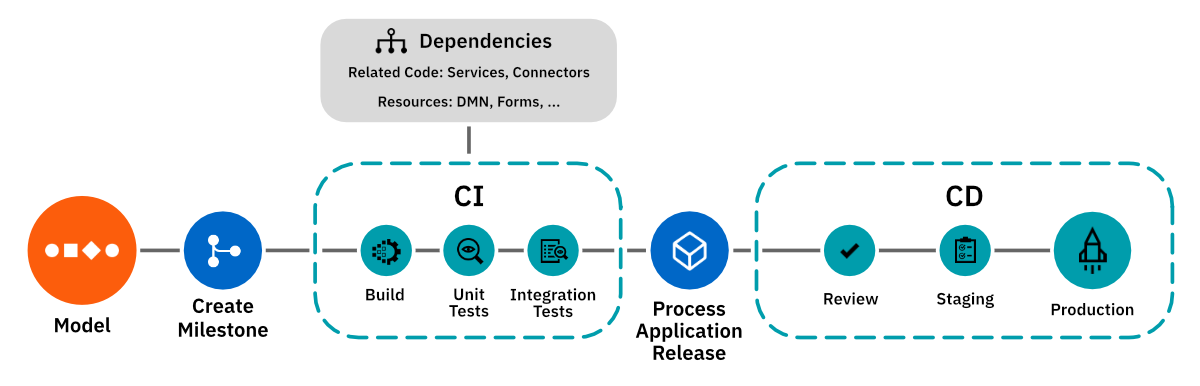
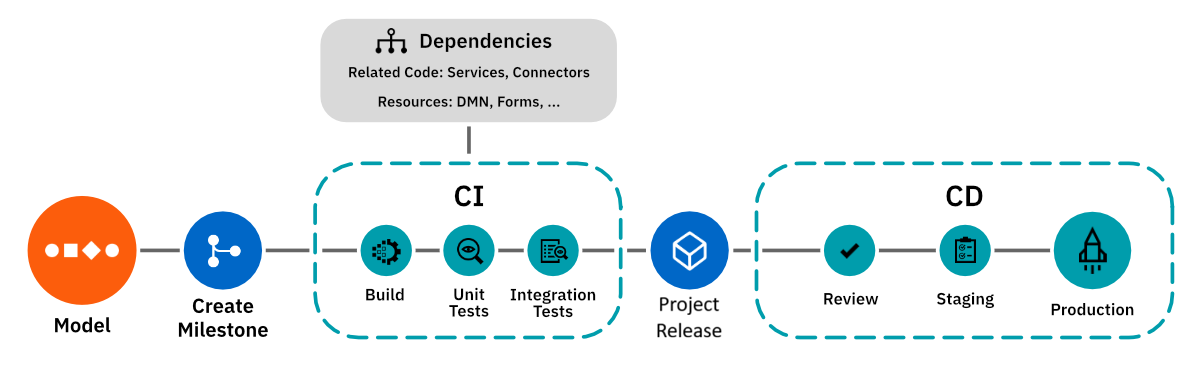
docs(hub): more hub terminology updates

Changed region(s): [[0.5242, 0.7772, 0.6167, 0.9326]]

diff --git a/docs/components/hub/workspace/modeler/integrate-modeler-in-ci-cd.md b/docs/components/hub/workspace/modeler/integrate-modeler-in-ci-cd.md
@@ -1,7 +1,7 @@
 ---
 id: integrate-modeler-in-ci-cd
 title: Integrate Camunda Hub into CI/CD
-description: Empower DevOps with Web Modeler and integrate into CI/CD pipelines to streamline deployments of projects.
+description: Empower DevOps with Camunda Hub and integrate into CI/CD pipelines to streamline deployments of projects.
 keywords: [CI/CD, devops, modeler, processops, projects, integration guide]
 ---
 
@@ -11,23 +11,26 @@ import TabItem from "@theme/TabItem";
 <span class="badge badge--intermediate">Intermediate</span>
 <span class="badge badge--medium">Time estimate: 1 hour</span>
 
-[Web Modeler](/components/modeler/about-modeler.md) serves as a powerful tool for the development and deployment of processes and projects. While Web Modeler simplifies one-click deployment for development, professional teams often rely on continuous integration and continuous deployment (CI/CD) pipelines for automated production deployments. The [Web Modeler API](/apis-tools/web-modeler-api/index.md) facilitates integration of Web Modeler into these pipelines, aligning with team practices and organizational process governance.
+Empower DevOps with Camunda Hub and integrate into CI/CD pipelines to streamline deployments of projects.
 
-- For low-risk processes, you can use Camunda Hub [project development pipeline](/components/hub/workspace/manage-projects/manage-projects.md#project-development-lifecycle) to quickly develop and progress project releases through the stages of a standard development lifecycle. [Version comparison](/components/hub/workspace/modeler/modeling/versions.md#compare-versions) (Visual and XML diffing), built in [review](/components/hub/workspace/manage-projects/project-versioning.md#request-a-review), and [Git Sync](/components/hub/workspace/manage-projects/git-sync.md) provide a powerful combination for collaboration between team members using both Web and Desktop Modeler.
+## About
 
-- For business-critical and higher-risk processes that require strict governance and/or quality requirements, you can integrate Web Modeler into your CI/CD pipelines.
+[Camunda Hub](/components/modeler/about-modeler.md) serves as a powerful tool for the development and deployment of processes and projects. While Camunda Hub simplifies one-click deployment for development, professional teams often rely on continuous integration and continuous deployment (CI/CD) pipelines for automated production deployments. The [Camunda Hub API](/apis-tools/hub-api-sm/overview.md) facilitates integration of Camunda Hub into these pipelines, aligning with team practices and organizational process governance.
+
+- For low-risk processes, develop and progress project releases through the stages of the standard [project development lifecycle](/components/hub/workspace/manage-projects/manage-projects.md#project-development-lifecycle). [Version comparison](/components/hub/workspace/modeler/modeling/versions.md#compare-versions) (Visual and XML diffing), built in [review](/components/hub/workspace/manage-projects/project-versioning.md#request-a-review), and [Git Sync](/components/hub/workspace/manage-projects/git-sync.md) provide a powerful combination for collaboration between team members using both Camunda Hub and Desktop Modeler.
+- For business-critical and higher-risk processes that require strict governance and/or quality requirements, you can integrate Camunda Hub into your CI/CD pipelines.
 
 Continuous integration and deployment are pivotal for rapid and reliable software development, testing, and delivery. These practices automate the building, testing, and deployment processes, leading to shorter development cycles, enhanced collaboration, and higher-quality releases.
 
-Integrating Web Modeler into your CI/CD pipelines can significantly enhance project development and deployment workflows. By automating project deployment, changes can be promptly and accurately reflected in the production environment. This agility empowers teams to swiftly respond to evolving business needs, fostering a flexible and adaptable process orchestration approach.
+Integrating Camunda Hub into your CI/CD pipelines can significantly enhance project development and deployment workflows. By automating project deployment, changes can be promptly and accurately reflected in the production environment. This agility empowers teams to swiftly respond to evolving business needs, fostering a flexible and adaptable process orchestration approach.
 
 ## Prerequisites
 
-Each pipeline is unique. The Web Modeler API offers flexibility to tailor integrations according to your pipelines. To get started, there are a few prerequisites based on your setup:
+Each pipeline is unique. The Camunda Hub API offers flexibility to tailor integrations according to your pipelines. To get started, there are a few prerequisites based on your setup:
 
 - A platform to host a version control system (VCS) such as GitHub or GitLab.
 - An existing pipeline or a plan to set one up using tools like [CircleCI](https://circleci.com/) or [Jenkins](https://www.jenkins.io/), cloud platforms such as [Azure DevOps Pipelines](https://azure.microsoft.com/de-de/products/devops), or built-in solutions of VCS platforms like [GitHub Actions](https://github.com/features/actions) or [GitLab's DevSecOps Lifecycle](https://about.gitlab.com/stages-devops-lifecycle/).
-- Make yourself familiar with the [Web Modeler API](/apis-tools/web-modeler-api/index.md) through the [OpenAPI documentation](https://modeler.camunda.io/swagger-ui/index.html).
+- Familiarize yourself with the [Camunda Hub API](/apis-tools/hub-api-sm/overview.md).
 - Understand how [clusters](/components/concepts/clusters.md) work in Camunda 8.
 - Ensure you’ve [created a Camunda 8 account](/components/hub/organization/manage-organization-settings/manage-plan/create-account.md), or installed [Camunda 8 Self-Managed](/self-managed/about-self-managed.md).
 
@@ -36,41 +39,41 @@ Each pipeline is unique. The Web Modeler API offers flexibility to tailor integr
 :::tip CI/CD pipeline process blueprint
 
 The Camunda Marketplace offers a customizable [process blueprint for CI/CD pipelines](https://marketplace.camunda.com/en-US/apps/439170/cicd-pipeline) to streamline the setup process described below.
-This blueprint provides a ready-to-use proof of concept for a CI/CD pipeline for Web Modeler, enabling you to synchronize Web Modeler files to GitLab and deploy them across different environments.
+This blueprint provides a ready-to-use proof of concept for a CI/CD pipeline for Camunda Hub, enabling you to synchronize Camunda Hub files to GitLab and deploy them across different environments.
 
 :::
 
 While a pipeline for project integration and deployment resembles general software CI/CD pipelines, key distinctions exist. Consider the following:
 
-- Web Modeler uses [versions](/components/hub/workspace/modeler/modeling/versions.md) to indicate specific process states, such as readiness for developer handover, review, or deployment.
-- A project comprises diverse resources, such as processes, subprocesses, forms, DMN decision models, connectors, job workers, and orchestrated services. Some applications bundle these resources, while others focus on a single process for deployment.
+- Camunda Hub uses [versions](/components/hub/workspace/modeler/modeling/versions.md) to indicate specific process states, such as readiness for developer handover, review, or deployment.
+- A project comprises diverse resources, such as processes, subprocesses, forms, DMN decision models, connectors, job workers, and orchestrated services. Some projects bundle these resources, while others focus on a single process for deployment.
 - Process reviews differ from code reviews, occurring on visual diagrams rather than XML.
 
-![Sample CI/CD setup with Web Modeler](img/modeler-ci-cd.png)
+![Sample CI/CD setup with Camunda Hub](img/modeler-ci-cd.png)
 
 ### Obtain API clients and tokens
 
-Before getting started, obtain API clients and tokens for integrating Web Modeler and accessing the process engine via API:
+Before getting started, obtain API clients and tokens for integrating Camunda Hub and accessing the process engine via API:
 
-- [Obtain an API token for Web Modeler](/apis-tools/web-modeler-api/authentication.md)
+- [Obtain an API token for Camunda Hub](/apis-tools/hub-api-sm/authentication.md)
 - [Obtain an API client for Zeebe](/components/hub/organization/manage-clusters/manage-api-clients.md#create-a-client)
 
-### Disable manual deployments from Web Modeler
+### Disable manual deployments from Camunda Hub
 
 To enforce pipeline-driven deployments to your environments, consider disabling manual deployments.
 
 <Tabs groupId="disableDeployments" defaultValue="sm" values={[{label: 'Self-Managed', value: 'sm', }, {label: 'SaaS', value: 'saas', },]} >
 <TabItem value="sm">
 
-Disable manual deployments for any user by configuring environment variables `ZEEBE_BPMN_DEPLOYMENT_ENABLED` and `ZEEBE_DMN_DEPLOYMENT_ENABLED` as documented [here](/self-managed/components/hub/configuration/properties.md#general).
+Disable manual deployments for any member by configuring environment variables `ZEEBE_BPMN_DEPLOYMENT_ENABLED` and `ZEEBE_DMN_DEPLOYMENT_ENABLED` as documented [here](/self-managed/components/hub/configuration/properties.md#general).
 
 </TabItem>
 <TabItem value="saas">
 
-Users without **Admin** roles in Camunda Hub can deploy only on `dev`, `test`, or `stage` clusters. To restrict their deployment permissions remove the **Developer** role from users in Camunda Hub.
+Users without **Organization Owner** or **Organization Admin** roles in Camunda Hub can deploy only on `dev`, `test`, or `stage` clusters. To restrict their deployment permissions, remove the now-deprecated **Developer** role from users in Camunda Hub.
 
 :::info
-Only organization owners or users with the **Admin** role can deploy from Web Modeler to `prod` clusters.
+Only users with **Organization Owner** or **Organization Admin** roles can deploy from Camunda Hub to `prod` clusters.
 :::
 
 Read more in the [user roles documentation](/components/hub/organization/manage-users/manage-users.md).
@@ -88,64 +91,94 @@ You need triggers to initiate the pipeline for files or projects. Choose between
 
 #### Sync files with version control
 
-Synchronize files between Web Modeler and version control systems (VCS) and vice versa. Manage both files and projects by using a complete set of CRUD (create, read, update, delete) operations provided by the Web Modeler API. By syncing files from Web Modeler to your VCS, you benefit from full file ownership and avoid duplicated data housekeeping.
+Synchronize files between Camunda Hub and version control systems (VCS) and vice versa. Manage both files and projects by using a complete set of CRUD (create, read, update, delete) operations provided by the Camunda Hub API. By syncing files from Camunda Hub to your VCS, you benefit from full file ownership and avoid duplicated data housekeeping.
 
-For automatic file synchronization, consider maintaining a secondary system of record for mapping Web Modeler projects to VCS repositories. This system also monitors the project-to-repository mapping and update timestamps.
+For automatic file synchronization, consider maintaining a secondary system of record for mapping Camunda Hub projects to VCS repositories. This system also monitors the project-to-repository mapping and updates timestamps.
 
-To listen to changes in Web Modeler, you currently need to implement a polling approach that compares the update dates with the last sync dates recorded. Use the `POST /api/v1/files/search` [endpoint](https://modeler.camunda.io/swagger-ui/index.html#/Files/searchFiles) with the following payload to identify files updated after the last sync date:
+#### Example: Poll latest file edits
 
-```json title="POST /api/v1/files/search"
+To listen to file changes in Camunda Hub, you currently need to implement a polling approach that compares the update dates with the last sync dates recorded.
+
+[Search for project files](/apis-tools/hub-api-sm/specifications/search-files.api.mdx) that have been updated since the last sync:
+
+```json title="POST /api/v2/files/search"
 {
   "filter": {
-    "projectId": "(PROJECT TO SYNC)",
-    "updated": ">(LAST SYNC DATE)"
+    "projectKey": "56a98f55-7c53-4e7b-83b7-c58856ee39e4",
+    "updated": {
+      "$gt": "2026-08-30T09:22:15.665653Z"
+    }
   },
-  "page": 0,
-  "size": 50
+  "page": {
+    "from": 0,
+    "limit": 50
+  }
 }
 ```
 
-:::info
-Pagination is enforced for all listed `search` endpoints. Ensure you obtain all relevant pages.
+:::note
+All responses for `search` endpoints are paginated. Make sure you obtain all relevant pages.
 :::
 
-Real-time synchronization isn't always what you need. Consider Web Modeler as a local repository, and update your remote repository only after files are committed and pushed. This aligns with the concept of [versions](/components/hub/workspace/modeler/modeling/versions.md).
+[Get the content for each file](/apis-tools/hub-api-sm/specifications/get-file.api.mdx):
 
-#### Listening to version creation
+```shell
+GET /api/v2/files/{fileKey}
+```
 
-A version reflects a state of a file in Web Modeler with a certain level of qualification, such as being ready for deployment. You can use this property to trigger deployments when a certain version is created.
+With this file data, you can create a pull request and sync the file contents with your repository.
 
-Currently, you have to poll for versions to listen to new ones created. Use the `POST /api/v1/versions/search` [endpoint](https://modeler.camunda.io/swagger-ui/index.html#/Versions/searchVersions) with the following payload to identify versions created after the last sync date:
+Real-time synchronization isn't always what you need. Consider Camunda Hub as a local repository, and update your remote repository only after files are committed and pushed. This aligns with the concept of [versions](/components/hub/workspace/modeler/modeling/versions.md).
 
-```json title="POST /api/v1/versions/search"
+#### Example: Poll new file versions
+
+A version reflects a state of a file in Camunda Hub with a certain level of qualification, such as being ready for deployment. You can use this property to trigger deployments when a certain version is created. You can poll the Camunda Hub API to know when a project file has a new version.
+
+[Search for all project files](/apis-tools/hub-api-sm/specifications/search-files.api.mdx):
+
+```json title="POST /api/v2/files/search"
 {
   "filter": {
-    "created": ">(YOUR LAST SYNC DATE)"
+    "projectKey": "56a98f55-7c53-4e7b-83b7-c58856ee39e4"
   },
-  "page": 0,
-  "size": 50
+  "page": {
+    "from": 0,
+    "limit": 50
+  }
 }
 ```
 
-You will receive a response similar to this, where the `fileId` indicates the file with the version created:
+This returns a list of files. You'll use the `fileKey` property to search for versions.
 
-```json
+[Get the file versions](/apis-tools/hub-api-sm/specifications/search-versions.api.mdx) for all project files. Filter for files whose versions are newer than the last sync date:
+
+```json title="/api/v2/versions/search"
 {
-  "items": [
-    {
-      "id": "string",
-      "name": "string",
-      "fileId": "string",
-      ...
+  "filter": {
+    "fileKey": {
+      "$in": [
+        "2afd9a1e-5ea8-43e3-b45b-6fb96b384a14",
+        "2386e244-b2c0-4feb-8b68-4429c0cdf0c5"
+      ]
     },
-    ...
-  ]
+    "created": {
+      "$gt": "2026-08-31T11:07:45.924036Z"
+    }
+  },
+  "page": {
+    "from": 0,
+    "limit": 50
+  }
 }
 ```
 
-To retrieve the content of this particular version, use the `GET /api/v1/versions/:id` endpoint. To obtain the latest edit state of the file, use the `GET /api/v1/files/:id` endpoint. This endpoint also provides the `projectId` necessary for the `POST /api/v1/projects/search` endpoint if you want to push the full project via the pipeline.
+[Get the content for each version](/apis-tools/hub-api-sm/specifications/get-version.api.mdx):
 
-Combine these two approaches and listen to versions to sync files to your version control, create a pull/merge request, and trigger pipelines.
+```shell
+GET /api/v2/versions/{versionKey}
+```
+
+With this version data, you can create a pull request and sync the file contents with your repository.
 
 ## Pipeline stages
 
@@ -157,7 +190,7 @@ While there is no distinct concept for a build package in Camunda 8, artifact st
 
 #### Set up preview environments
 
-Offering an automatically testable and review-ready process preview mandates a dedicated preview cluster. Numerous options exist, varying with software development lifecycle design, preferences, and Camunda 8 deployment type (SaaS, self-managed, or hybrid). This guide proposes a setup with lightweight local self-managed preview clusters (or embedded engines) and full-fledged staging and production clusters (Self-Managed or SaaS).
+Offering an automatically testable and review-ready process preview mandates a dedicated preview cluster. Numerous options exist, varying with software development lifecycle design, preferences, and Camunda 8 deployment type (SaaS, Self-Managed, or hybrid). This guide proposes a setup with lightweight local Self-Managed preview clusters (or embedded engines) and full-fledged staging and production clusters (Self-Managed or SaaS).
 
 ##### Using fully-featured clusters
 
@@ -175,31 +208,33 @@ For GitLab users, consider using [GitLab Review Apps](https://docs.gitlab.com/ee
 
 Deploy resources using the [Orchestration Cluster REST API](/apis-tools/orchestration-cluster-api-rest/orchestration-cluster-api-rest-overview.md) in this pipeline step, compatible with both SaaS and Self-Managed clusters. Alternately, utilize the [Java](/apis-tools/java-client/getting-started.md) client library or any [community-built alternatives](/apis-tools/community-clients/index.md).
 
-:::info Feature branches and Web Modeler installations
-To maintain a single source of truth, avoid multiple Web Modeler instances for different feature branches. Instead, maintain a single Web Modeler installation for all environments, utilizing versions to signify versioning and pipeline stages. Feature branches can be managed by cloning and merging files or projects, ensuring synchronization using VCS.
+:::info Feature branches and Camunda Hub installations
+To maintain a single source of truth, avoid multiple Camunda Hub instances for different feature branches. Instead, maintain a single Camunda Hub installation for all environments, utilizing versions to signify versioning and pipeline stages. Feature branches can be managed by cloning and merging files or projects, ensuring synchronization using VCS.
 :::
 
 #### Automate deployment of linked resources/dependencies
 
-Pipeline-driven deployment can be executed for a single file or an entire project. A separate system of record, maintained outside Web Modeler, can handle finer-grained dependency management. Fetch the full project for a file using the `GET /api/v1/files/:id` endpoint to acquire the project's `projectId`. Subsequently, use the `POST /api/v1/files/search` endpoint with the following payload to retrieve all project files:
+Pipeline-driven deployment can be executed for a single file or an entire project. A separate system of record, maintained outside Camunda Hub, can handle finer-grained dependency management. Fetch the full project for a file using the `GET /api/v2/files/{fileKey}` endpoint to acquire the project's `projectKey`. Subsequently, use the `POST /api/v2/files/search` endpoint with the following payload to retrieve all project files:
 
-```json title="POST /api/v1/files/search"
+```json title="POST /api/v2/files/search"
 {
   "filter": {
-    "projectId": "(PROJECT ID)"
+    "projectKey": "56a98f55-7c53-4e7b-83b7-c58856ee39e4"
   },
-  "page": 0,
-  "size": 50
+  "page": {
+    "from": 0,
+    "limit": 50
+  }
 }
 ```
 
 :::info
-Pagination is enforced for all listed `search` endpoints. Ensure you obtain all relevant pages.
+All responses for `search` endpoints are paginated. Make sure you obtain all relevant pages.
 :::
 
-To retrieve the actual file `content`, iterate over the response and fetch it via `GET /api/v1/files/:id`. Parse the XML of the diagram for the `zeebe:taskDefinition` tag to retrieve job worker types. Utilizing a job worker registry mapping, deploy these workers along with the process if required.
+To retrieve the actual file `content`, iterate over the response and fetch it via `GET /api/v2/files/{fileKey}`. Parse the XML of the diagram for the `zeebe:taskDefinition` tag to retrieve job worker types. Utilizing a job worker registry mapping, deploy these workers along with the process if required.
 
-If you are running connectors in your process or application, you need to deploy the runtimes as well. Parse the process XML for `zeebe:taskDefinition` bindings to identify the necessary runtimes (in addition to job workers). To learn how to deploy connector runtimes, read more [here](/self-managed/components/connectors/overview.md) for Self-Managed, or [here](/components/connectors/custom-built-connectors/connector-sdk.md#runtime-environments) for SaaS.
+If you are running connectors in your process, you need to deploy the runtimes as well. Parse the process XML for `zeebe:taskDefinition` bindings to identify the necessary runtimes (in addition to job workers). To learn how to deploy connector runtimes, read more [here](/self-managed/components/connectors/overview.md) for Self-Managed, or [here](/components/connectors/custom-built-connectors/connector-sdk.md#runtime-environments) for SaaS.
 
 Deploy resources in this pipeline step using the [Orchestration Cluster REST API](/apis-tools/orchestration-cluster-api-rest/orchestration-cluster-api-rest-overview.md), compatible with both SaaS and Self-Managed clusters. Alternatively, utilize the Java client library or any community-built alternatives.
 
@@ -213,7 +248,7 @@ Keep strict quality standards for your processes with automatic testing and repo
 
 #### Lint your diagrams
 
-Add a step to your pipeline for automatic process verification using the [bpmnlint](https://github.com/bpmn-io/bpmnlint) and [dmnlint](https://github.com/bpmn-io/dmnlint) libraries. Maintained by the bpmn-io team at Camunda, these open source libraries provide a default set of verification rules, as well as the option to add custom rules. They provide reporting capabilities to report back when the verification fails. These are the same libraries Web Modeler uses to verify diagrams during modeling.
+Add a step to your pipeline for automatic process verification using the [bpmnlint](https://github.com/bpmn-io/bpmnlint) and [dmnlint](https://github.com/bpmn-io/dmnlint) libraries. Maintained by the bpmn-io team at Camunda, these open source libraries provide a default set of verification rules, as well as the option to add custom rules. They provide reporting capabilities to report back when the verification fails. These are the same libraries Camunda Hub uses to verify diagrams during modeling.
 
 You could even report the wrong diagram patterns together with examples to resolve it using [this extension](https://github.com/bpmn-io/bpmnlint-generate-docs-images).
 
@@ -223,42 +258,49 @@ For unit tests, select a test framework suitable for your environment. If workin
 
 ### Review stage
 
-During reviews, use the Modeler API again to [add collaborators](https://modeler.camunda.io/swagger-ui/index.html#/Collaborators/modifyCollaborator), or to [create links to visual diffs of your versions](https://modeler.camunda.io/swagger-ui/index.html#/Versions/compareVersions), and automatically paste them into your GitHub or GitLab pull or merge requests.
-This provides you the freedom to let reviews happen where you want them, and even include business by sharing the diff links with them in an automated fashion.
+During reviews, you can:
 
-After review, use the `DELETE /api/v1/projects/{projectId}/collaborators/email` [endpoint](https://modeler.camunda.io/swagger-ui/index.html#/Collaborators/deleteCollaborator) to remove collaborators again.
+1. Use the Camunda Hub API to [add workspace members](/apis-tools/hub-api-sm/specifications/add-member.api.mdx).
+2. [Create a link to a visual diff for reviews](#create-a-link-to-a-visual-diff-for-reviews)
+3. Automatically paste them into your GitHub or GitLab pull or merge requests.
+
+This provides you the freedom to let reviews happen where you want them.
+
+After review, use the [`DELETE /api/v2/workspaces/{workspaceKey}/members/{email}` endpoint](/apis-tools/hub-api-sm/specifications/remove-member.api.mdx) to remove members from the workspace.
 
 #### Create a link to a visual diff for reviews
 
-Use versions to indicate a state for review. Use the `POST /api/v1/versions` endpoint to create a new version, and provide a description to reflect the state of this version using the `name` property. The current content of the file is copied over on version creation.
+Use versions to indicate a state for review. Use the `POST /api/v2/versions` endpoint to create a new version, and provide a description to reflect the state of this version using the `name` property. The current content of the file is copied over on version creation.
 
-While it is possible to do a diff of your diagrams by comparing the XML in your VCS system, this is often not very convenient, and lacks insight into process flow changes. This approach is also less effective when involving business stakeholders in the review.
+While it is possible to do a diff of your diagrams by comparing the XML in your VCS, this is often not very convenient, and lacks insight into process flow changes. This approach is also less effective when involving business stakeholders in the review.
 
-The Web Modeler API addresses this by providing an endpoint to generate visual diff links for versions. Utilize the `GET /api/v1/versions/compare/{version1Id}...{version2Id}` [endpoint](https://modeler.camunda.io/swagger-ui/index.html#/Versions/compareVersions) to compare two versions. Obtain IDs for the latest versions via the `POST /api/v1/versions/search` [endpoint](https://modeler.camunda.io/swagger-ui/index.html#/Versions/searchVersions), utilizing the `fileId` filter to identify the file to review. The resulting URL leads to a visual diff page similar to this:
+Instead, you can generate visual diff links for versions:
 
-![Visual diff of two versions](img/visual-diff.png)
+1. Get the file and version keys from the [search](/apis-tools/hub-api-sm/specifications/search-versions.api.mdx) or [get](/apis-tools/hub-api-sm/specifications/get-version.api.mdx) version API endpoints.
+2. Insert the keys into one of the following URL patterns:
 
-##### Example review flow
-
-The following process diagram demonstrates an example flow of how to run a preview using versions and a diff link in GitHub:
-
-<iframe src="https://modeler.cloud.ultrawombat.com/embed/35868bd2-a690-48de-a069-aa8ae6b3a846" style={{width: "100%", height: "500px", border: "1px solid #ccc"}} allowfullscreen></iframe>
+| Resource type    | Template URL                                                                     |
+| :--------------- | :------------------------------------------------------------------------------- |
+| BPMN             | `{baseURL}/diagrams/{fileKey}/versions/{versionKey1}...{versionKey2}`            |
+| Element template | `{baseURL}/connector-templates/{fileKey}/versions/{versionKey1}...{versionKey2}` |
+| Form             | `{baseURL}/forms/{fileKey}/versions/{versionKey1}...{versionKey2}`               |
+| RPA              | `{baseURL}/rpa-scripts/{fileKey}/versions/{versionKey1}...{versionKey2}`         |
 
 #### Review a running project
 
-If deployed in a review environment, processes/applications can be shared with peers for interactive review. For comprehensive review, full clusters inclusive of Operate and Tasklist can be used for process execution. This closely simulates the final experience. To integrate the preview environment with custom applications, leverage the Operate and Tasklist APIs and deploy them within the review environment.
+If deployed in a review environment, processes can be shared with peers for interactive review. For comprehensive review, full clusters inclusive of Operate and Tasklist can be used for process execution. This closely simulates the final experience. To integrate the preview environment with custom applications, leverage the Operate and Tasklist APIs and deploy them within the review environment.
 
-In case you use an embedded Zeebe engine, or want to provide a lightweight, focused review experience, you can use [Zeebe Simple Monitor](https://github.com/camunda-community-hub/zeebe-simple-monitor), which is a community-maintained Web App similar to the [Test mode](/components/hub/workspace/modeler/validation/test-your-process.md) in Web Modeler. Deploying Zeebe SimpleMonitor allows for thorough process testing and review.
+In case you use an embedded Zeebe engine, or want to provide a lightweight, focused review experience, you can use [Zeebe Simple Monitor](https://github.com/camunda-community-hub/zeebe-simple-monitor), which is a community-maintained Web App similar to the [Test mode](/components/hub/workspace/modeler/validation/test-your-process.md) in Camunda Hub. Deploying Zeebe SimpleMonitor allows for thorough process testing and review.
 
 ### Publish stage
 
-Push approved changes to staging or production by deploying them to the respective clusters. You can use the [Orchestration Cluster REST API](/apis-tools/orchestration-cluster-api-rest/orchestration-cluster-api-rest-overview.md) to deploy via your pipeline, which works both for a SaaS or Self-Managed cluster. Deployments work slightly different on SaaS and Self-Managed, since there are differences in the cluster connection. Read more about deployments [here](/apis-tools/working-with-apis-tools.md#deploy-processes-start-process-instances-and-more-using-zeebe-client-libraries).
+Push approved changes to staging or production by deploying them to the respective clusters. You can use the [Orchestration Cluster REST API](/apis-tools/orchestration-cluster-api-rest/orchestration-cluster-api-rest-overview.md) to deploy via your pipeline, which works both for a SaaS or Self-Managed cluster.
 
 #### Define authorizations
 
 For clusters with [authorizations](/components/concepts/access-control/authorizations.md) enabled, use the Orchestration Cluster REST API to assign the necessary authorizations through the pipeline. This step ensures appropriate accessibility for process/application stakeholders or updating existing authorizations.
 
-##### Monitoring and error handling
+#### Monitoring and error handling
 
 As with any CI/CD integration, it's crucial to set up monitoring and error handling mechanisms. These can include:
 
@@ -277,17 +319,17 @@ Blue-green deployments are possible with Camunda 8 with limitations. While switc
 
 While blue-green deployments are more straightforward with Self-Managed setups, you can implement similar deployment strategies with Camunda 8 SaaS. Keep in mind the limitations and differences between clusters when planning your deployment approach.
 
-#### How can I prevent manual deployments from Web Modeler?
+#### How can I prevent manual deployments from Camunda Hub?
 
-To enforce CI/CD pipelines and restrict manual deployments, you can disable manual deployments. For Self-Managed setups, set environment variables `ZEEBE_BPMN_DEPLOYMENT_ENABLED` and `ZEEBE_DMN_DEPLOYMENT_ENABLED`. In Camunda 8 SaaS, only the **Developer** role allows deployments from Web Modeler. Assigning any other role effectively removes deployment privileges.
+To enforce CI/CD pipelines and restrict manual deployments, you can disable manual deployments. For Self-Managed setups, set environment variables `ZEEBE_BPMN_DEPLOYMENT_ENABLED` and `ZEEBE_DMN_DEPLOYMENT_ENABLED`. In Camunda 8 SaaS, manage deployment permissions via [user roles](/components/hub/organization/manage-users/manage-users.md).
 
-#### How can I sync files between Web Modeler and version control?
+#### How can I sync files between Camunda Hub and version control?
 
-Use the Web Modeler API's CRUD operations to sync files between Web Modeler and your version control system. Consider maintaining a second system of record to map Web Modeler projects to VCS repositories and track sync/update dates.
+Use the Camunda Hub API's CRUD operations to sync files between Camunda Hub and your version control system. Consider maintaining a second system of record to map Camunda Hub projects to VCS repositories and track sync/update dates.
 
-#### How do I listen to version creation in Web Modeler?
+#### How do I listen to version creation in Camunda Hub?
 
-Currently, you need to poll for version creations using the `POST /api/v1/versions/search` endpoint of the Web Modeler API. Compare the `created` date of versions with your last sync date to identify newly created versions.
+Currently, you need to poll for version creations using the `POST /api/v2/versions/search` endpoint of the Camunda Hub API. Compare the `created` date of versions with your last sync date to identify newly created versions.
 
 #### What is the purpose of the build stage in my pipeline?
 
@@ -312,4 +354,4 @@ Implement monitoring mechanisms in your CI/CD pipeline to catch errors and failu
 ## Additional resources and next steps
 
 - [Camunda 8 overview](https://bit.ly/3TjNEm7)
-- [Web Modeler API documentation](/apis-tools/web-modeler-api/index.md)
+- [Camunda Hub API documentation](/apis-tools/hub-api-sm/overview.md)

diff --git a/docs/components/hub/organization/manage-users/manage-users.md b/docs/components/hub/organization/manage-users/manage-users.md
@@ -10,7 +10,7 @@ When a user signs up for Camunda 8 as the first user from their organization, co
 
 The Organization Owner has all rights in an organization and can manage all settings accordingly. An organization cannot have more than one Organization Owner.
 
-To change the Organization Owner, use the user administration. The current owner selects another member of the organization and clicks **Assign as owner** from the menu. In the dialog that appears, select the role to assign to the current owner after the transfer.
+To change the Organization Owner, use the user administration. The current owner selects another user of the organization and clicks **Assign as owner** from the menu. In the dialog that appears, select the role to assign to the current owner after the transfer.
 
 ### Roles and permissions
 
